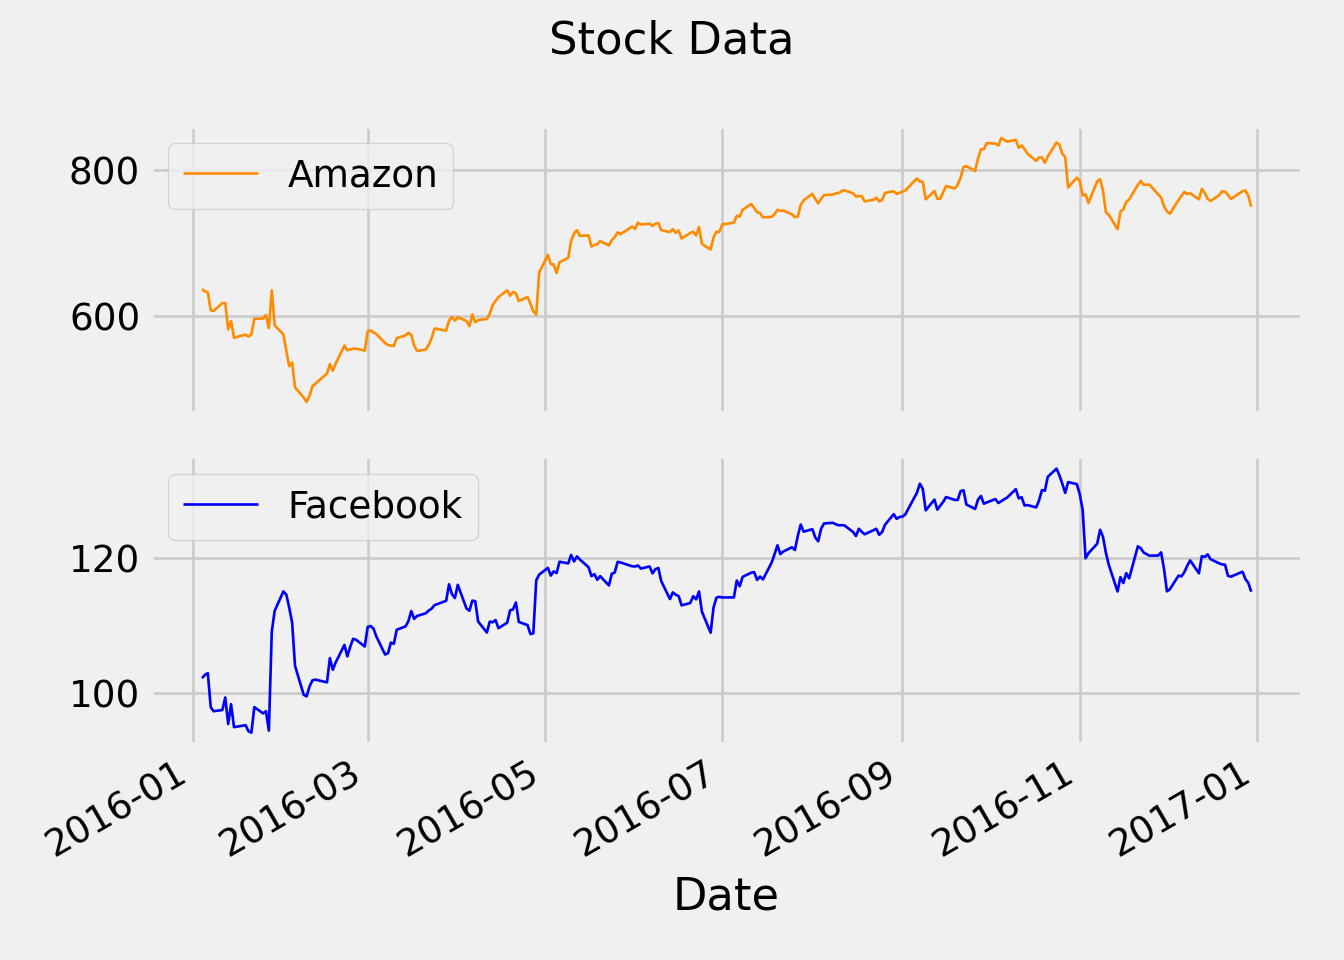
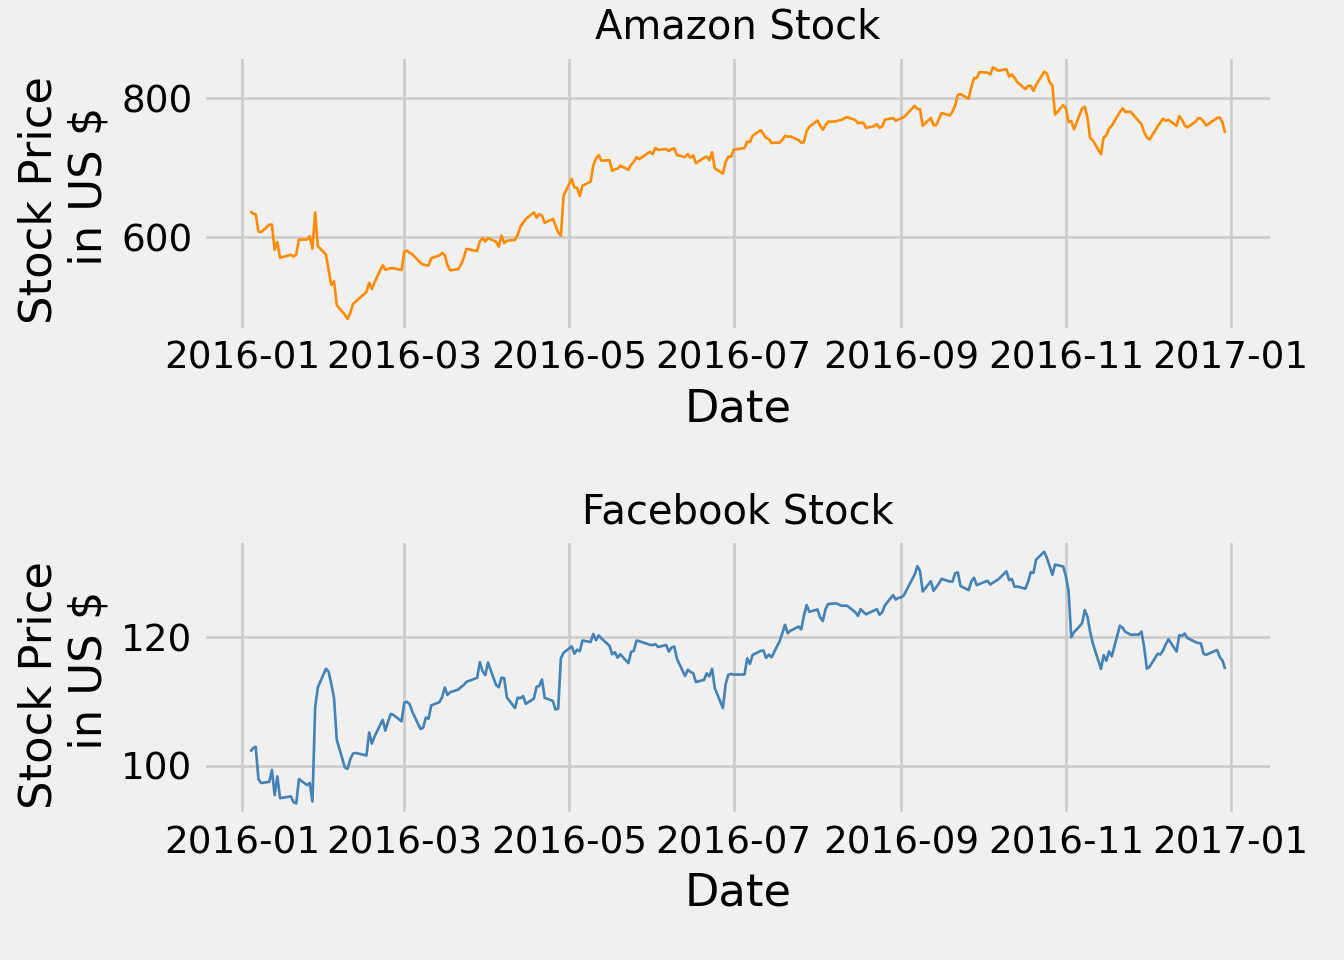
Adjusted Subplots of Sharpe Ratio post

diff --git a/content/post/2021-03-27-risks-and-returns-sharpe-ratio-python-stock-data-analysis/index.html b/content/post/2021-03-27-risks-and-returns-sharpe-ratio-python-stock-data-analysis/index.html
@@ -22,11 +22,11 @@ So let’s inspect the Sharpe ratio by calculating it for the stocks of the two 
 import pandas as pd
 import numpy as np
 import matplotlib.pyplot as plt
+import seaborn as sns
 
 # Settings to produce nice plots in a Jupyter notebook
 plt.style.use(&#39;fivethirtyeight&#39;)
 
-  
 # Reading in the data
 stock_data = pd.read_csv(&#39;/Users/max/Documents/Data Science/Project_Notebooks/Risk and Returns- The Sharpe Ratio/datasets/stock_data.csv&#39;, parse_dates= [&#39;Date&#39;], index_col= [&#39;Date&#39;]).dropna()
 benchmark_data = pd.read_csv(&#39;/Users/max/Documents/Data Science/Project_Notebooks/Risk and Returns- The Sharpe Ratio/datasets/benchmark_data.csv&#39;, parse_dates= [&#39;Date&#39;], index_col= [&#39;Date&#39;]).dropna() </code></pre>
@@ -76,10 +76,20 @@ benchmark_data = pd.read_csv(&#39;/Users/max/Documents/Data Science/Project_Note
 <h2>Daily prices for Amazon and Facebook</h2>
 <p>Before we compare an investment in either Facebook or Amazon with the index of the 500 largest companies in the US, let’s visualize the data.</p>
 <pre class="python"><code># visualize the stock_data
-stock_data.plot(kind= &quot;line&quot;,subplots= True, title= &quot;Stock Data&quot;, linewidth= 1.0, color= (&quot;darkorange&quot;, &quot;blue&quot;))</code></pre>
-<pre><code>## array([&lt;AxesSubplot:xlabel=&#39;Date&#39;&gt;, &lt;AxesSubplot:xlabel=&#39;Date&#39;&gt;],
-##       dtype=object)</code></pre>
-<pre class="python"><code>plt.tight_layout()
+fig, ax= plt.subplots(2,1)
+fig.tight_layout()
+plt.subplots_adjust(wspace=1.0, hspace= 0.75)
+plt.gcf().subplots_adjust(left=0.15, bottom= 0.15)
+fig.suptitle(&quot;Stock price of Amazon and Facebook&quot;,y= 1.92, ha= &quot;center&quot;, va= &quot;top&quot;, size= 20)
+
+
+sns.lineplot(ax= ax[0], x= stock_data.index, y= &quot;Amazon&quot;, data= stock_data, linewidth= 1.0, color= &quot;darkorange&quot;)
+ax[0].set_ylabel(&quot;Stock Price \n in US $&quot;)
+ax[0].set_title(&quot;Amazon Stock&quot;, fontsize= 15)
+
+sns.lineplot(ax= ax[1], x= stock_data.index, y= &quot;Facebook&quot;, data= stock_data, linewidth= 1.0, color= &quot;steelblue&quot;)
+ax[1].set_ylabel(&quot;Stock Price \n in US $&quot;)
+ax[1].set_title(&quot;Facebook Stock&quot;, fontsize= 15)
 plt.show()
 # summarize the stock_data</code></pre>
 <p><img src="{{< blogdown/postref >}}index_files/figure-html/unnamed-chunk-3-1.png" width="672" /></p>
@@ -98,8 +108,13 @@ plt.show()
 <h2>S&amp;P 500</h2>
 <p>Let’s also take a closer look at the value of the S&amp;P 500, our benchmark.</p>
 <pre class="python"><code># plot the benchmark_data
-benchmark_data.plot(kind= &quot;line&quot;,title= &#39;S&amp;P 500&#39;, linewidth= 1.0)
+fig, ax= plt.subplots()
+plt.gcf().subplots_adjust(left=0.13, bottom= 0.17)
+sns.lineplot(x= benchmark_data.index, y= &#39;S&amp;P 500&#39;, linewidth= 1.0, data= benchmark_data)
+ax.set_title(&quot;S&amp;P 500 Index&quot;)
+ax.set_ylabel(&quot;Index Points&quot;)
 plt.show()
+
 # summarize the benchmark_data</code></pre>
 <p><img src="{{< blogdown/postref >}}index_files/figure-html/unnamed-chunk-4-1.png" width="672" /></p>
 <pre class="python"><code>benchmark_data.describe()</code></pre>
@@ -121,10 +136,23 @@ However, the data shows the historical value of each investment, not the return.
 stock_returns = stock_data.pct_change()
 
 # plot the daily returns
-stock_returns.plot(subplots= True, linewidth= 1.0, color= (&quot;darkorange&quot;, &quot;darkblue&quot;))</code></pre>
-<pre><code>## array([&lt;AxesSubplot:xlabel=&#39;Date&#39;&gt;, &lt;AxesSubplot:xlabel=&#39;Date&#39;&gt;],
-##       dtype=object)</code></pre>
-<pre class="python"><code>plt.show()
+fig, ax= plt.subplots(2, sharey= True)
+fig.tight_layout()
+plt.subplots_adjust(wspace=1.0, hspace= 0.5)
+plt.gcf().subplots_adjust(left=0.13, bottom= 0.12)
+
+sns.lineplot(ax= ax[0], x= stock_returns.index, y= &quot;Amazon&quot;, linewidth= 1.0, color= &quot;darkorange&quot;, data= stock_returns)
+sns.lineplot(ax= ax[1], x= stock_returns.index, y= &quot;Facebook&quot;, linewidth= 1.0, color= &quot;steelblue&quot;, data= stock_returns)
+
+ax[0].set_xlabel(&quot;Date&quot;, fontsize= 13)
+ax[0].set_ylabel(&quot;Change in Percent&quot;, fontsize= 13)
+ax[0].set_title(&quot;Amazon Stock&quot;, fontsize= 15)
+
+ax[1].set_xlabel(&quot;Date&quot;, fontsize= 13)
+ax[1].set_ylabel(&quot;Change in Percent&quot;, fontsize= 13)
+ax[1].set_title(&quot;Facebook Stock&quot;, fontsize= 15)
+plt.show()
+
 # summarize the daily returns</code></pre>
 <p><img src="{{< blogdown/postref >}}index_files/figure-html/unnamed-chunk-5-1.png" width="672" /></p>
 <pre class="python"><code>stock_returns.describe()</code></pre>
@@ -139,37 +167,55 @@ stock_returns.plot(subplots= True, linewidth= 1.0, color= (&quot;darkorange&quot
 ## max      0.095664    0.155214</code></pre>
 <p>For the S&amp;P 500, calculating daily returns works just the same way.</p>
 <pre class="python"><code># calculate daily benchmark_data returns
-sp_returns = benchmark_data[&#39;S&amp;P 500&#39;].pct_change()
+sp_returns = benchmark_data.pct_change()
 
 # plot the daily returns
-sp_returns.plot(linewidth= 1.0)
-plt.tight_layout()
-plt.show()
+fig, ax= plt.subplots()
+plt.gcf().subplots_adjust(left=0.15, bottom= 0.15)
+sns.lineplot(x= sp_returns.index, y= &quot;S&amp;P 500&quot;, linewidth= 1.0, data= sp_returns)
+ax.set_title(&quot;S&amp;P 500 Index&quot;)
+ax.set_ylabel(&quot;Change in Percent&quot;)
 
+plt.hlines(y= 0.0, xmin= sp_returns.index.min(), xmax= sp_returns.index.max(),linestyles= &#39;dashed&#39;, color= &#39;black&#39;, linewidth= 1.5)
+
+plt.show()
 # summarize the daily returns</code></pre>
 <p><img src="{{< blogdown/postref >}}index_files/figure-html/unnamed-chunk-6-1.png" width="672" /></p>
 <pre class="python"><code>sp_returns.describe()</code></pre>
-<pre><code>## count    251.000000
-## mean       0.000458
-## std        0.008205
-## min       -0.035920
-## 25%       -0.002949
-## 50%        0.000205
-## 75%        0.004497
-## max        0.024760
-## Name: S&amp;P 500, dtype: float64</code></pre>
+<pre><code>##           S&amp;P 500
+## count  251.000000
+## mean     0.000458
+## std      0.008205
+## min     -0.035920
+## 25%     -0.002949
+## 50%      0.000205
+## 75%      0.004497
+## max      0.024760</code></pre>
 </div>
 <div id="calculating-excess-returns-for-amazon-and-facebook-vs.-sp-500" class="section level2">
 <h2>Calculating Excess Returns for Amazon and Facebook vs. S&amp;P 500</h2>
-<p>Next, one needs to calculate the relative performance of stocks vs. the S&amp;P 500 benchmark. This is calculated as the difference in returns between <code>stock_returns</code> and <code>sp_returns</code> for each day.</p>
+<p>
+Next, one needs to calculate the relative performance of stocks vs. the S&amp;P 500 benchmark. This is calculated as the difference in returns between <code>stock_returns</code> and <code>sp_returns</code> for each day.
+</p>
 <pre class="python"><code># calculate the difference in daily returns
-excess_returns = stock_returns.sub(sp_returns, axis= 0)
+excess_returns = stock_returns.sub(sp_returns[&quot;S&amp;P 500&quot;], axis= 0)
 
 # plot the excess_returns
-excess_returns.plot(linewidth= 1.0, subplots= True, color= (&quot;darkorange&quot;, &quot;darkblue&quot;))</code></pre>
-<pre><code>## array([&lt;AxesSubplot:xlabel=&#39;Date&#39;&gt;, &lt;AxesSubplot:xlabel=&#39;Date&#39;&gt;],
-##       dtype=object)</code></pre>
-<pre class="python"><code>plt.tight_layout()
+fig, ax= plt.subplots(2, sharey= True)
+fig.tight_layout()
+plt.subplots_adjust(wspace=1.5, hspace= 0.75)
+plt.gcf().subplots_adjust(left=0.15, bottom= 0.15)
+
+
+sns.lineplot(ax= ax[0], x= excess_returns.index, y= &quot;Amazon&quot;, linewidth= 1.0, color= &quot;darkorange&quot;, data= excess_returns)
+sns.lineplot(ax= ax[1], x= excess_returns.index, y= &quot;Facebook&quot;, linewidth= 1.0, color= &quot;steelblue&quot;, data= excess_returns)
+
+ax[0].set_ylabel(&quot;Difference \n in returns&quot;, fontsize= 13)
+ax[0].set_title(&quot;Amazon Stock&quot;, fontsize= 15)
+
+ax[1].set_ylabel(&quot;Difference \n in returns&quot;, fontsize= 13)
+ax[1].set_title(&quot;Facebook Stock&quot;, fontsize= 15)
+
 plt.show()
 # summarize the excess_returns</code></pre>
 <p><img src="{{< blogdown/postref >}}index_files/figure-html/unnamed-chunk-7-1.png" width="672" /></p>
@@ -189,32 +235,34 @@ plt.show()
 <p>Step 1: The Average Difference in Daily Returns Stocks vs S&amp;P 500</p>
 <pre class="python"><code># calculate the mean of excess_returns 
 avg_excess_return = excess_returns.mean()
-
-# plot avg_excess_returns
-avg_excess_return.plot(linewidth= 1.0)
-plt.show()</code></pre>
-<p><img src="{{< blogdown/postref >}}index_files/figure-html/unnamed-chunk-8-1.png" width="672" /></p>
+print(avg_excess_return)</code></pre>
+<pre><code>## Amazon      0.000360
+## Facebook    0.000168
+## dtype: float64</code></pre>
 <p>Step 2: Standard Deviation of the Return Difference</p>
 <pre class="python"><code># calculate the standard deviations
 sd_excess_return = excess_returns.std()
-
-# plot the standard deviations
-sd_excess_return.plot.bar(linewidth= 1.0,title=&#39;Standard Deviation of the Return Difference&#39;, color=(&quot;darkorange&quot;,&quot;darkblue&quot;), width= 0.5)
-
-plt.tight_layout()
-plt.show()</code></pre>
-<p><img src="{{< blogdown/postref >}}index_files/figure-html/unnamed-chunk-9-1.png" width="672" /></p>
+print(sd_excess_return)</code></pre>
+<pre><code>## Amazon      0.016126
+## Facebook    0.015439
+## dtype: float64</code></pre>
 <p>Step 3: Compute the ratio</p>
 <pre class="python"><code># calculate the daily sharpe ratio
 daily_sharpe_ratio = avg_excess_return.div(sd_excess_return)
-
 # annualize the sharpe ratio
 annual_factor = np.sqrt(252)
 annual_sharpe_ratio = daily_sharpe_ratio.mul(annual_factor)
+df_annual_sharpe_ratio = pd.DataFrame(annual_sharpe_ratio, index= annual_sharpe_ratio.index, columns= [&quot;Sharpe Ratio&quot;])
 
-# plot the annualized sharpe ratio
-annual_sharpe_ratio.plot(linewidth= 1.0, title= &#39;Annualized Sharpe Ratio: Stocks vs S&amp;P 500&#39;)
+print(df_annual_sharpe_ratio)
 
+# plot the annualized sharpe ratio</code></pre>
+<pre><code>##           Sharpe Ratio
+## Amazon        0.354283
+## Facebook      0.172329</code></pre>
+<pre class="python"><code>fig, ax= plt.subplots()
+sns.barplot(x= df_annual_sharpe_ratio.index, y= &quot;Sharpe Ratio&quot;,palette= (&quot;darkorange&quot;, &quot;steelblue&quot;), data= df_annual_sharpe_ratio)
+ax.set_title(&quot;Annual Sharpe Ratio of Amazon and Facebook&quot;)
 plt.show()</code></pre>
 <p><img src="{{< blogdown/postref >}}index_files/figure-html/unnamed-chunk-10-1.png" width="672" /></p>
 </div>
